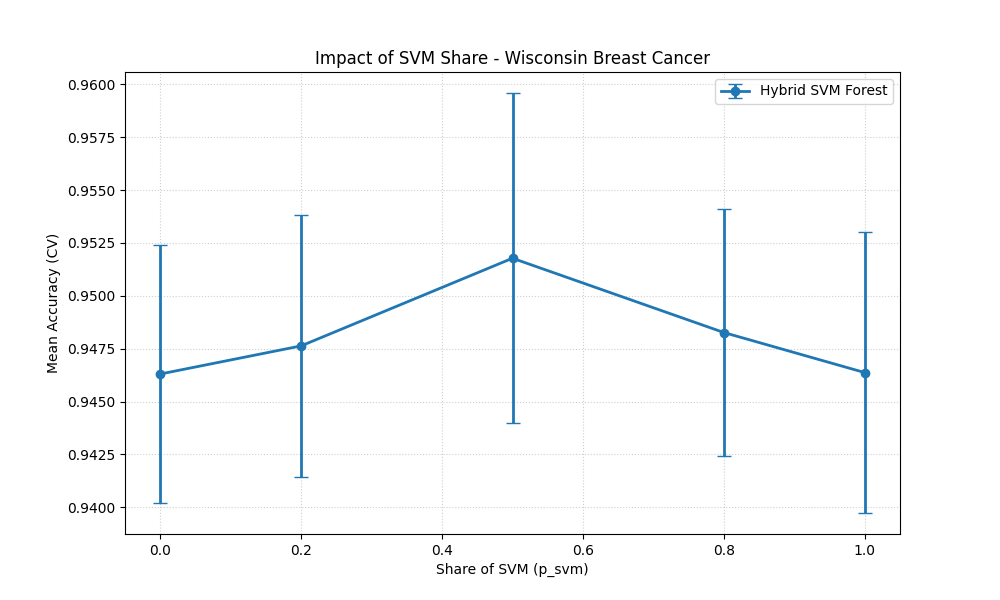
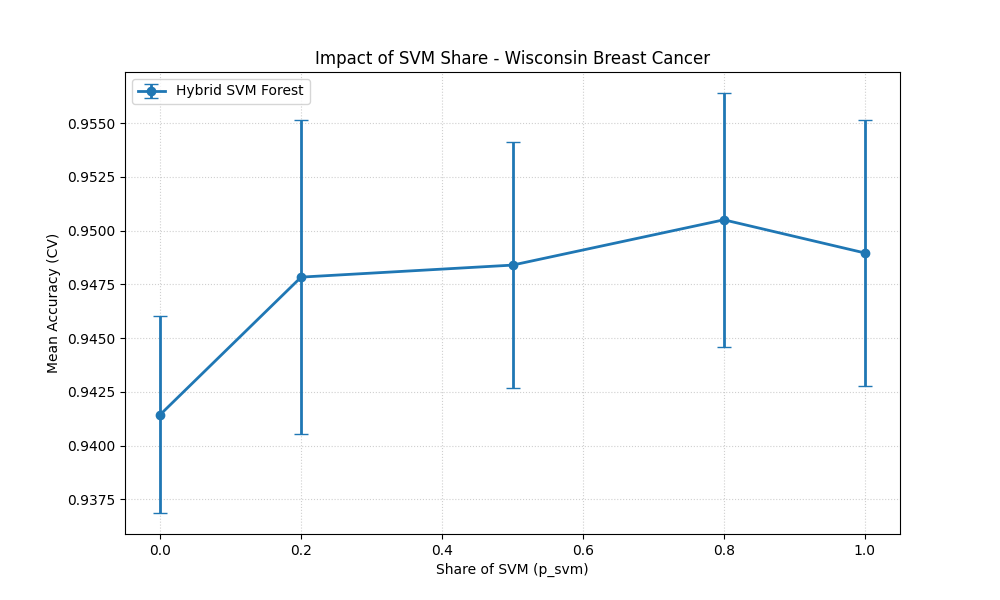
final polish

diff --git a/src/main.py b/src/main.py
@@ -1,5 +1,6 @@
 import pandas as pd
 import warnings
+import os
 
 # Sklearn optimizations
 try:
@@ -39,6 +40,9 @@ def main():
     runner = ExperimentRunner(n_repeats=25, n_splits=5)
     visualizer = Visualizer(output_dir="./plots")
 
+    results_dir = "./results"
+    os.makedirs(results_dir, exist_ok=True)
+
     verifier.run(datasets_config)
 
     print("\n" + "="*50)
@@ -70,23 +74,23 @@ def main():
         for p in [0.0, 0.2, 0.5, 0.8, 1.0]:
             stats = runner.run_cv(
                 X_id3, X_svm, y, HybridSVMForest,
-                {"n_estimators": fixed_n, "p_svm": p, "C": fixed_C}
+                {"estimator_count": fixed_n, "p_svm": p, "C": fixed_C}
             )
             results_exp_p_svm.append({
                 "dataset": ds_name, "model_type": "HybridSVMForest",
                 "p_svm": p, **stats
             })
 
-        print("   Running Exp 2: Impact of n_estimators...")
+        print("   Running Exp 2: Impact of estimator_count...")
         fixed_p_for_T = 0.5
         for n in [10, 20, 50, 100]:
             stats = runner.run_cv(
                 X_id3, X_svm, y, HybridSVMForest,
-                {"n_estimators": n, "p_svm": fixed_p_for_T, "C": fixed_C}
+                {"estimator_count": n, "p_svm": fixed_p_for_T, "C": fixed_C}
             )
             results_exp_n_est.append({
                 "dataset": ds_name, "model_type": "HybridSVMForest",
-                "n_estimators": n, **stats
+                "estimator_count": n, **stats
             })
 
         print("   Running Exp 3: Impact of C (Regularization)...")
@@ -94,7 +98,7 @@ def main():
         for c_val in [0.1, 1.0, 10.0, 50.0]:
             stats = runner.run_cv(
                 X_id3, X_svm, y, HybridSVMForest,
-                {"n_estimators": fixed_n, "p_svm": fixed_p_for_C, "C": c_val}
+                {"estimator_count": fixed_n, "p_svm": fixed_p_for_C, "C": c_val}
             )
             results_exp_C.append({
                 "dataset": ds_name, "model_type": "HybridSVMForest",
@@ -103,18 +107,33 @@ def main():
 
     if results_exp_p_svm:
         df = pd.DataFrame(results_exp_p_svm)
+
+        csv_path = os.path.join(results_dir, "results_impact_p_svm.csv")
+        df.to_csv(csv_path, index=False)
+        print(f"\nSaved CSV: {csv_path}")
+
         print("\n--- Results: Impact of p_svm ---")
         print(df[["dataset", "p_svm", "mean_acc"]].to_string(index=False))
         visualizer.plot_experiment(df, "p_svm", "Share of SVM (p_svm)", "Impact of SVM Share")
 
     if results_exp_n_est:
         df = pd.DataFrame(results_exp_n_est)
-        print("\n--- Results: Impact of n_estimators ---")
-        print(df[["dataset", "n_estimators", "mean_acc"]].to_string(index=False))
-        visualizer.plot_experiment(df, "n_estimators", "Number of Estimators (T)", "Ensemble Size Stability")
+
+        csv_path = os.path.join(results_dir, "results_impact_estimator_count.csv")
+        df.to_csv(csv_path, index=False)
+        print(f"\nSaved CSV: {csv_path}")
+
+        print("\n--- Results: Impact of estimator_count ---")
+        print(df[["dataset", "estimator_count", "mean_acc"]].to_string(index=False))
+        visualizer.plot_experiment(df, "estimator_count", "Number of Estimators (T)", "Ensemble Size Stability")
 
     if results_exp_C:
         df = pd.DataFrame(results_exp_C)
+
+        csv_path = os.path.join(results_dir, "results_impact_C.csv")
+        df.to_csv(csv_path, index=False)
+        print(f"\nSaved CSV: {csv_path}")
+
         print("\n--- Results: Impact of C parameter ---")
         print(df[["dataset", "C", "mean_acc"]].to_string(index=False))
         visualizer.plot_experiment(df, "C", "SVM Regularization (C)", "Impact of C parameter")

diff --git a/src/core/experiments/VerificationRunner.py b/src/core/experiments/VerificationRunner.py
@@ -1,26 +1,31 @@
 import pandas as pd
+from typing import Any, Callable, Dict, List, Tuple, Union
 from sklearn.model_selection import train_test_split
 from sklearn.metrics import accuracy_score
 from sklearn.tree import DecisionTreeClassifier
 from core.models.ID3Classifier import ID3Classifier
 
+Loader = Callable[[], Union[Tuple[Any, Any], Tuple[Any, Any, Any]]]
+DatasetConfig = Dict[str, Any]
+
 
 class VerificationRunner:
-    def __init__(self, random_state=42):
-        self.random_state = random_state
+    def __init__(self, random_state: int = 42) -> None:
+        self.random_state: int = random_state
 
-    def run(self, datasets_config):
-        print("\n" + "="*50)
+    def run(self, datasets_config: List[DatasetConfig]) -> None:
+        print("\n" + "=" * 50)
         print("VERIFICATION EXPERIMENT: Custom ID3 vs Sklearn Tree")
-        print("="*50)
+        print("=" * 50)
 
-        results = []
+        results: List[Dict[str, str]] = []
 
         for ds in datasets_config:
-            ds_name = ds["name"]
+            ds_name: str = ds["name"]
             print(f"Verifying on {ds_name}...")
             try:
-                loaded_data = ds["loader"]()
+                loader: Loader = ds["loader"]
+                loaded_data = loader()
                 if len(loaded_data) == 3:
                     X_id3, _, y = loaded_data
                 else:
@@ -30,22 +35,26 @@ class VerificationRunner:
                     X_id3, y, test_size=0.3, random_state=self.random_state, stratify=y
                 )
 
-                id3 = ID3Classifier()
+                id3: ID3Classifier = ID3Classifier()
                 id3.fit(X_train, y_train)
                 pred_id3 = id3.predict(X_test)
                 acc_id3 = accuracy_score(y_test, pred_id3)
 
-                dt = DecisionTreeClassifier(criterion='entropy', random_state=self.random_state)
+                dt: DecisionTreeClassifier = DecisionTreeClassifier(
+                    criterion="entropy", random_state=self.random_state
+                )
                 dt.fit(X_train, y_train)
                 pred_dt = dt.predict(X_test)
                 acc_dt = accuracy_score(y_test, pred_dt)
 
-                results.append({
-                    "Dataset": ds_name,
-                    "Custom ID3 Acc": f"{acc_id3:.4f}",
-                    "Sklearn Tree Acc": f"{acc_dt:.4f}",
-                    "Diff": f"{acc_id3 - acc_dt:.4f}"
-                })
+                results.append(
+                    {
+                        "Dataset": ds_name,
+                        "Custom ID3 Acc": f"{acc_id3:.4f}",
+                        "Sklearn Tree Acc": f"{acc_dt:.4f}",
+                        "Diff": f"{acc_id3 - acc_dt:.4f}",
+                    }
+                )
 
             except Exception as e:
                 print(f"Error in verification for {ds_name}: {e}")

diff --git a/src/core/experiments/ExperimentRunner.py b/src/core/experiments/ExperimentRunner.py
@@ -1,44 +1,53 @@
 import time
+from typing import Dict, Any, Type, List
 import numpy as np
+from sklearn.base import BaseEstimator
 from sklearn.model_selection import StratifiedKFold
 from sklearn.metrics import accuracy_score
 
 
 class ExperimentRunner:
-    def __init__(self, n_repeats=25, n_splits=5):
-        self.n_repeats = n_repeats
-        self.n_splits = n_splits
+    def __init__(self, n_repeats: int = 25, n_splits: int = 5) -> None:
+        self.n_repeats: int = n_repeats
+        self.n_splits: int = n_splits
 
-    def run_cv(self, X_id3, X_svm, y, model_class, model_params):
-        accuracies = []
-        base_seed = int(time.time())
+    def run_cv(
+        self,
+        X_id3: np.ndarray,
+        X_svm: np.ndarray,
+        y: np.ndarray,
+        model_class: Type[BaseEstimator],
+        model_params: Dict[str, Any],
+    ) -> Dict[str, float]:
+        accuracies: List[float] = []
+        base_seed: int = int(time.time())
 
         for i in range(self.n_repeats):
-            current_seed = base_seed + i
+            current_seed: int = base_seed + i
             skf = StratifiedKFold(n_splits=self.n_splits, shuffle=True, random_state=current_seed)
 
-            fold_accuracies = []
+            fold_accuracies: List[float] = []
             for train_index, test_index in skf.split(X_id3, y):
                 y_train, y_test = y[train_index], y[test_index]
 
                 X_train_tuple = (X_id3[train_index], X_svm[train_index])
                 X_test_tuple = (X_id3[test_index], X_svm[test_index])
 
-                if 'random_state' in model_class.__init__.__code__.co_varnames:
-                    model = model_class(**model_params, random_state=current_seed)
+                if "random_state" in model_class.__init__.__code__.co_varnames:
+                    model: BaseEstimator = model_class(**model_params, random_state=current_seed)
                 else:
                     model = model_class(**model_params)
 
                 model.fit(X_train_tuple, y_train)
                 preds = model.predict(X_test_tuple)
-                acc = accuracy_score(y_test, preds)
+                acc: float = accuracy_score(y_test, preds)
                 fold_accuracies.append(acc)
 
-            accuracies.append(np.mean(fold_accuracies))
+            accuracies.append(float(np.mean(fold_accuracies)))
 
         return {
-            "mean_acc": np.mean(accuracies),
-            "std_acc": np.std(accuracies),
-            "min_acc": np.min(accuracies),
-            "max_acc": np.max(accuracies),
+            "mean_acc": float(np.mean(accuracies)),
+            "std_acc": float(np.std(accuracies)),
+            "min_acc": float(np.min(accuracies)),
+            "max_acc": float(np.max(accuracies)),
         }

diff --git a/src/core/utils/Visualizer.py b/src/core/utils/Visualizer.py
@@ -1,13 +1,17 @@
 import os
+
 import matplotlib.pyplot as plt
+import pandas as pd
 
 
 class Visualizer:
-    def __init__(self, output_dir="./plots"):
+    output_dir: str
+
+    def __init__(self, output_dir: str = "./plots") -> None:
         self.output_dir = output_dir
         os.makedirs(self.output_dir, exist_ok=True)
 
-    def plot_experiment(self, df_results, x_col, x_label, title_suffix):
+    def plot_experiment(self, df_results: pd.DataFrame, x_col: str, x_label: str, title_suffix: str) -> None:
         if df_results.empty:
             return
 
@@ -37,8 +41,8 @@ class Visualizer:
             plt.grid(True, linestyle=':', alpha=0.6)
             plt.legend()
 
-            safe_name = f"{ds_name}_{x_col}".replace(" ", "_").replace("-", "").lower()
-            filename = os.path.join(self.output_dir, f"exp_{safe_name}.png")
+            safe_name: str = f"{ds_name}_{x_col}".replace(" ", "_").replace("-", "").lower()
+            filename: str = os.path.join(self.output_dir, f"exp_{safe_name}.png")
             plt.savefig(filename)
             plt.close()
             print(f"Plot saved: {filename}")
